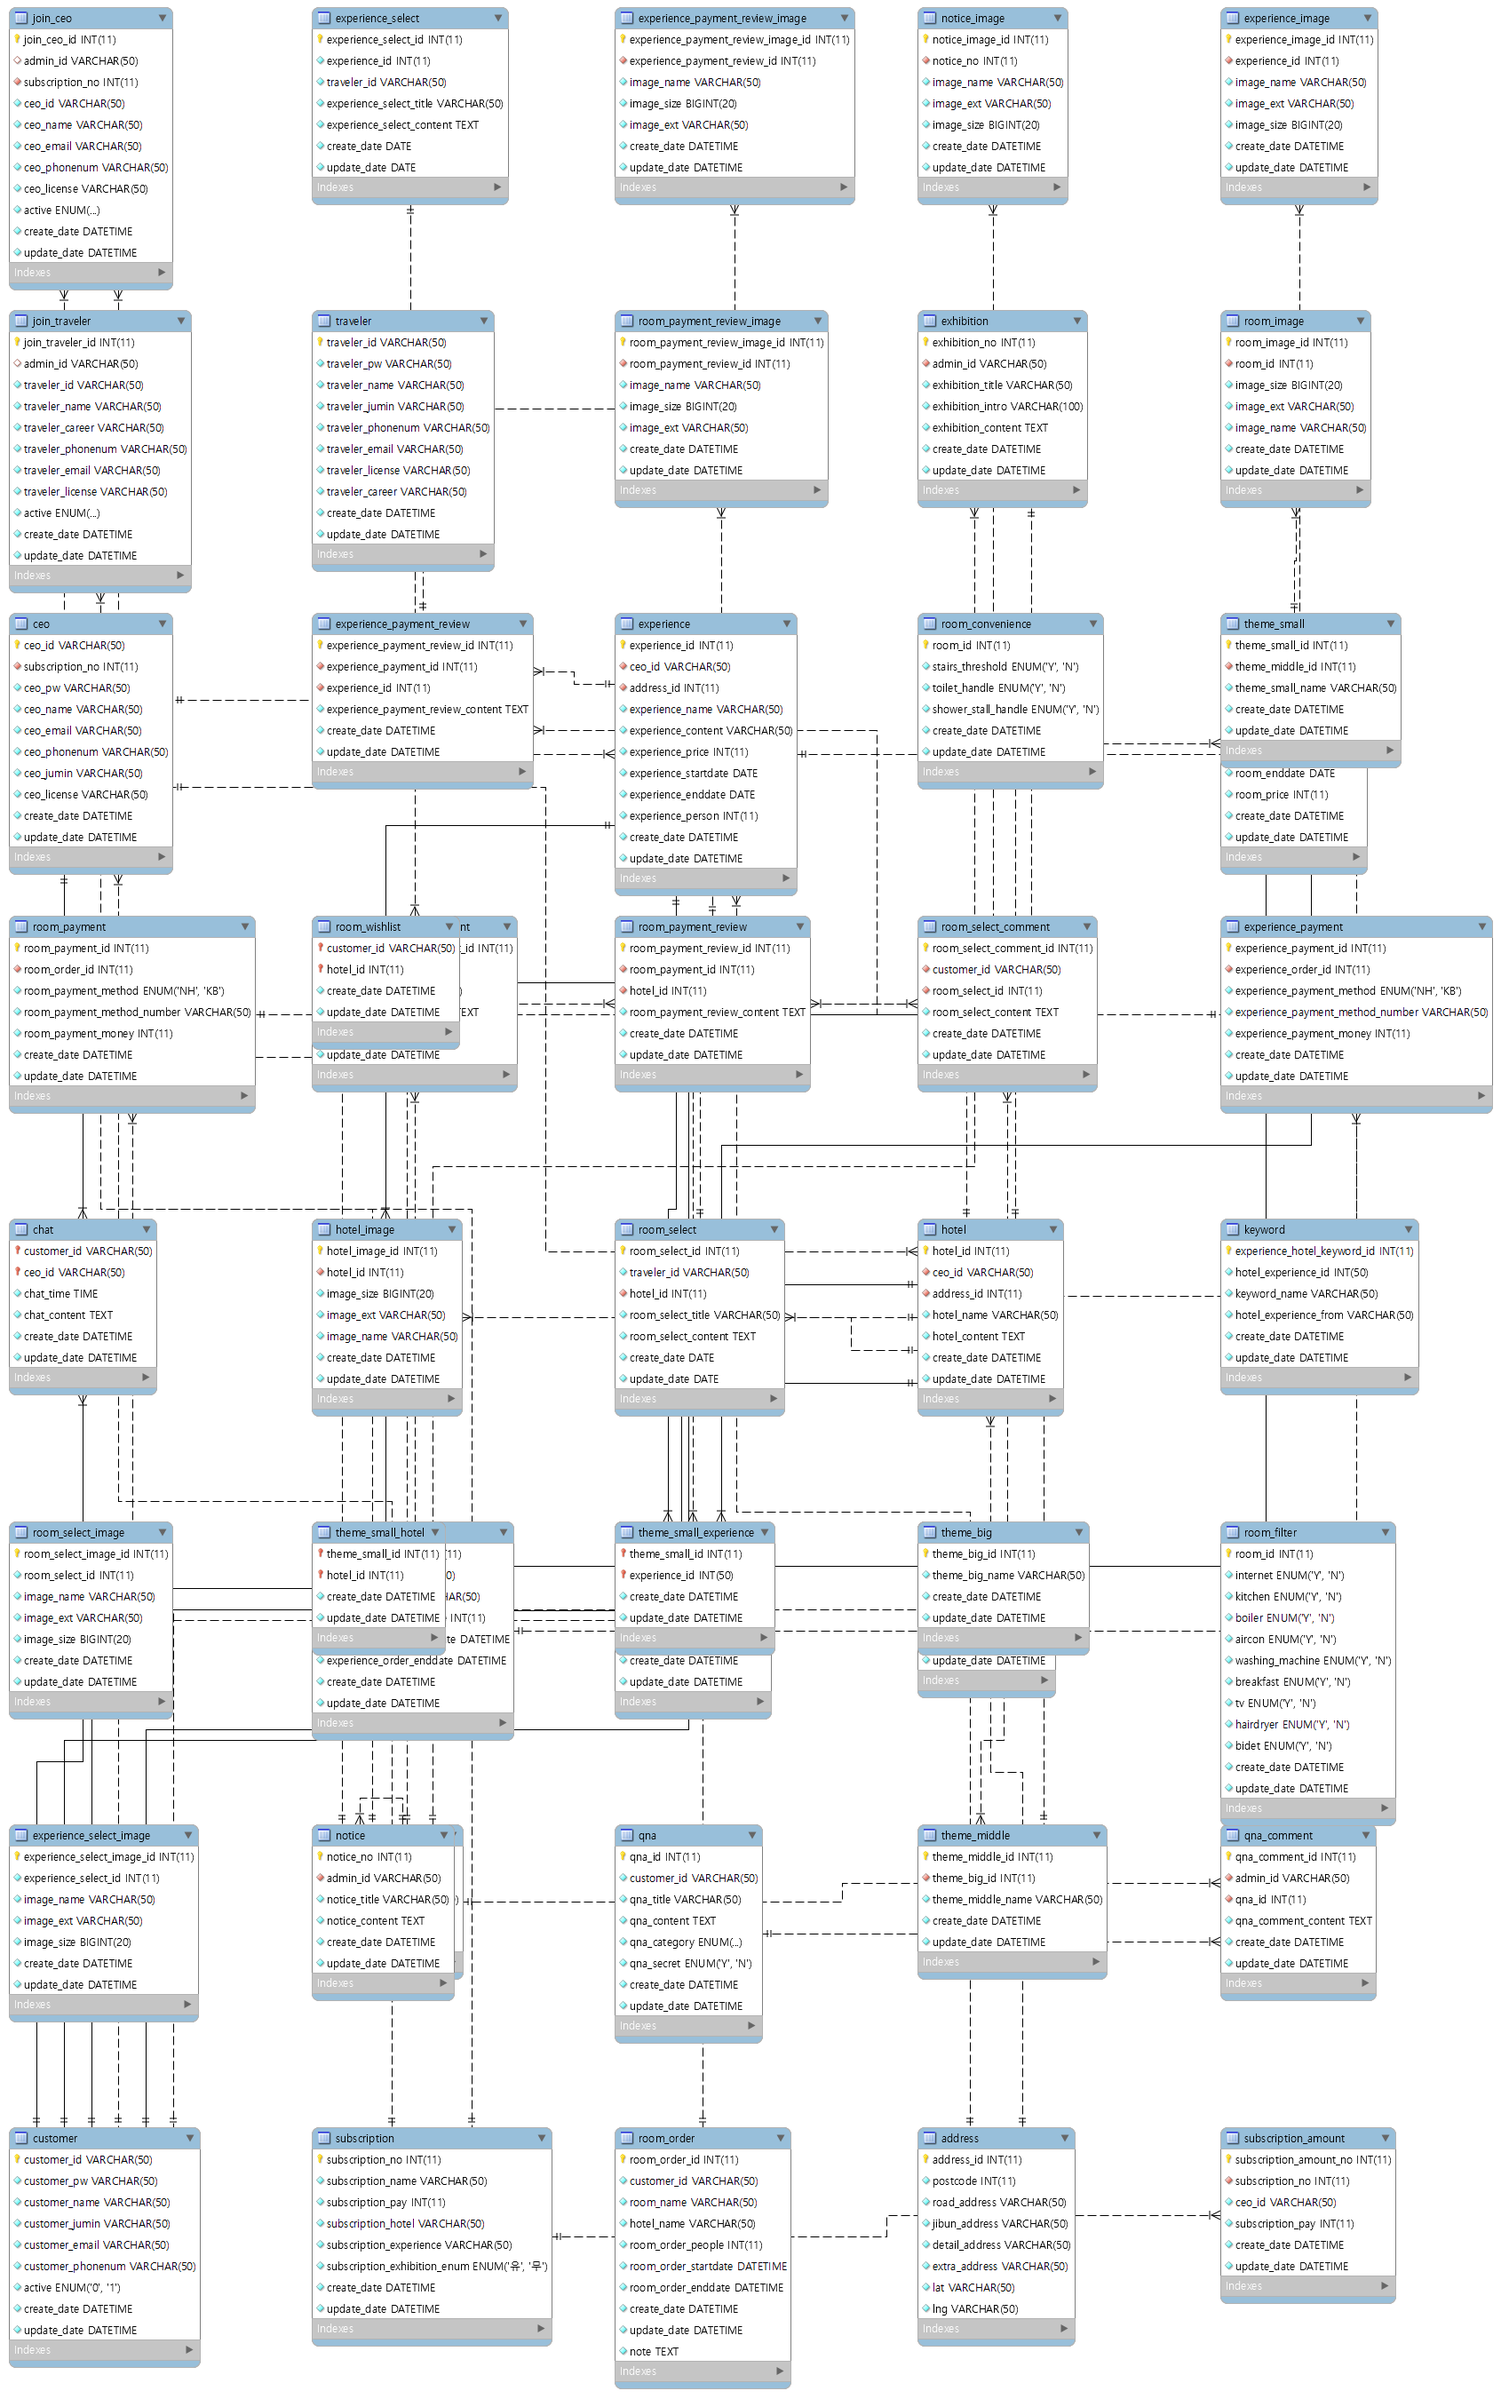
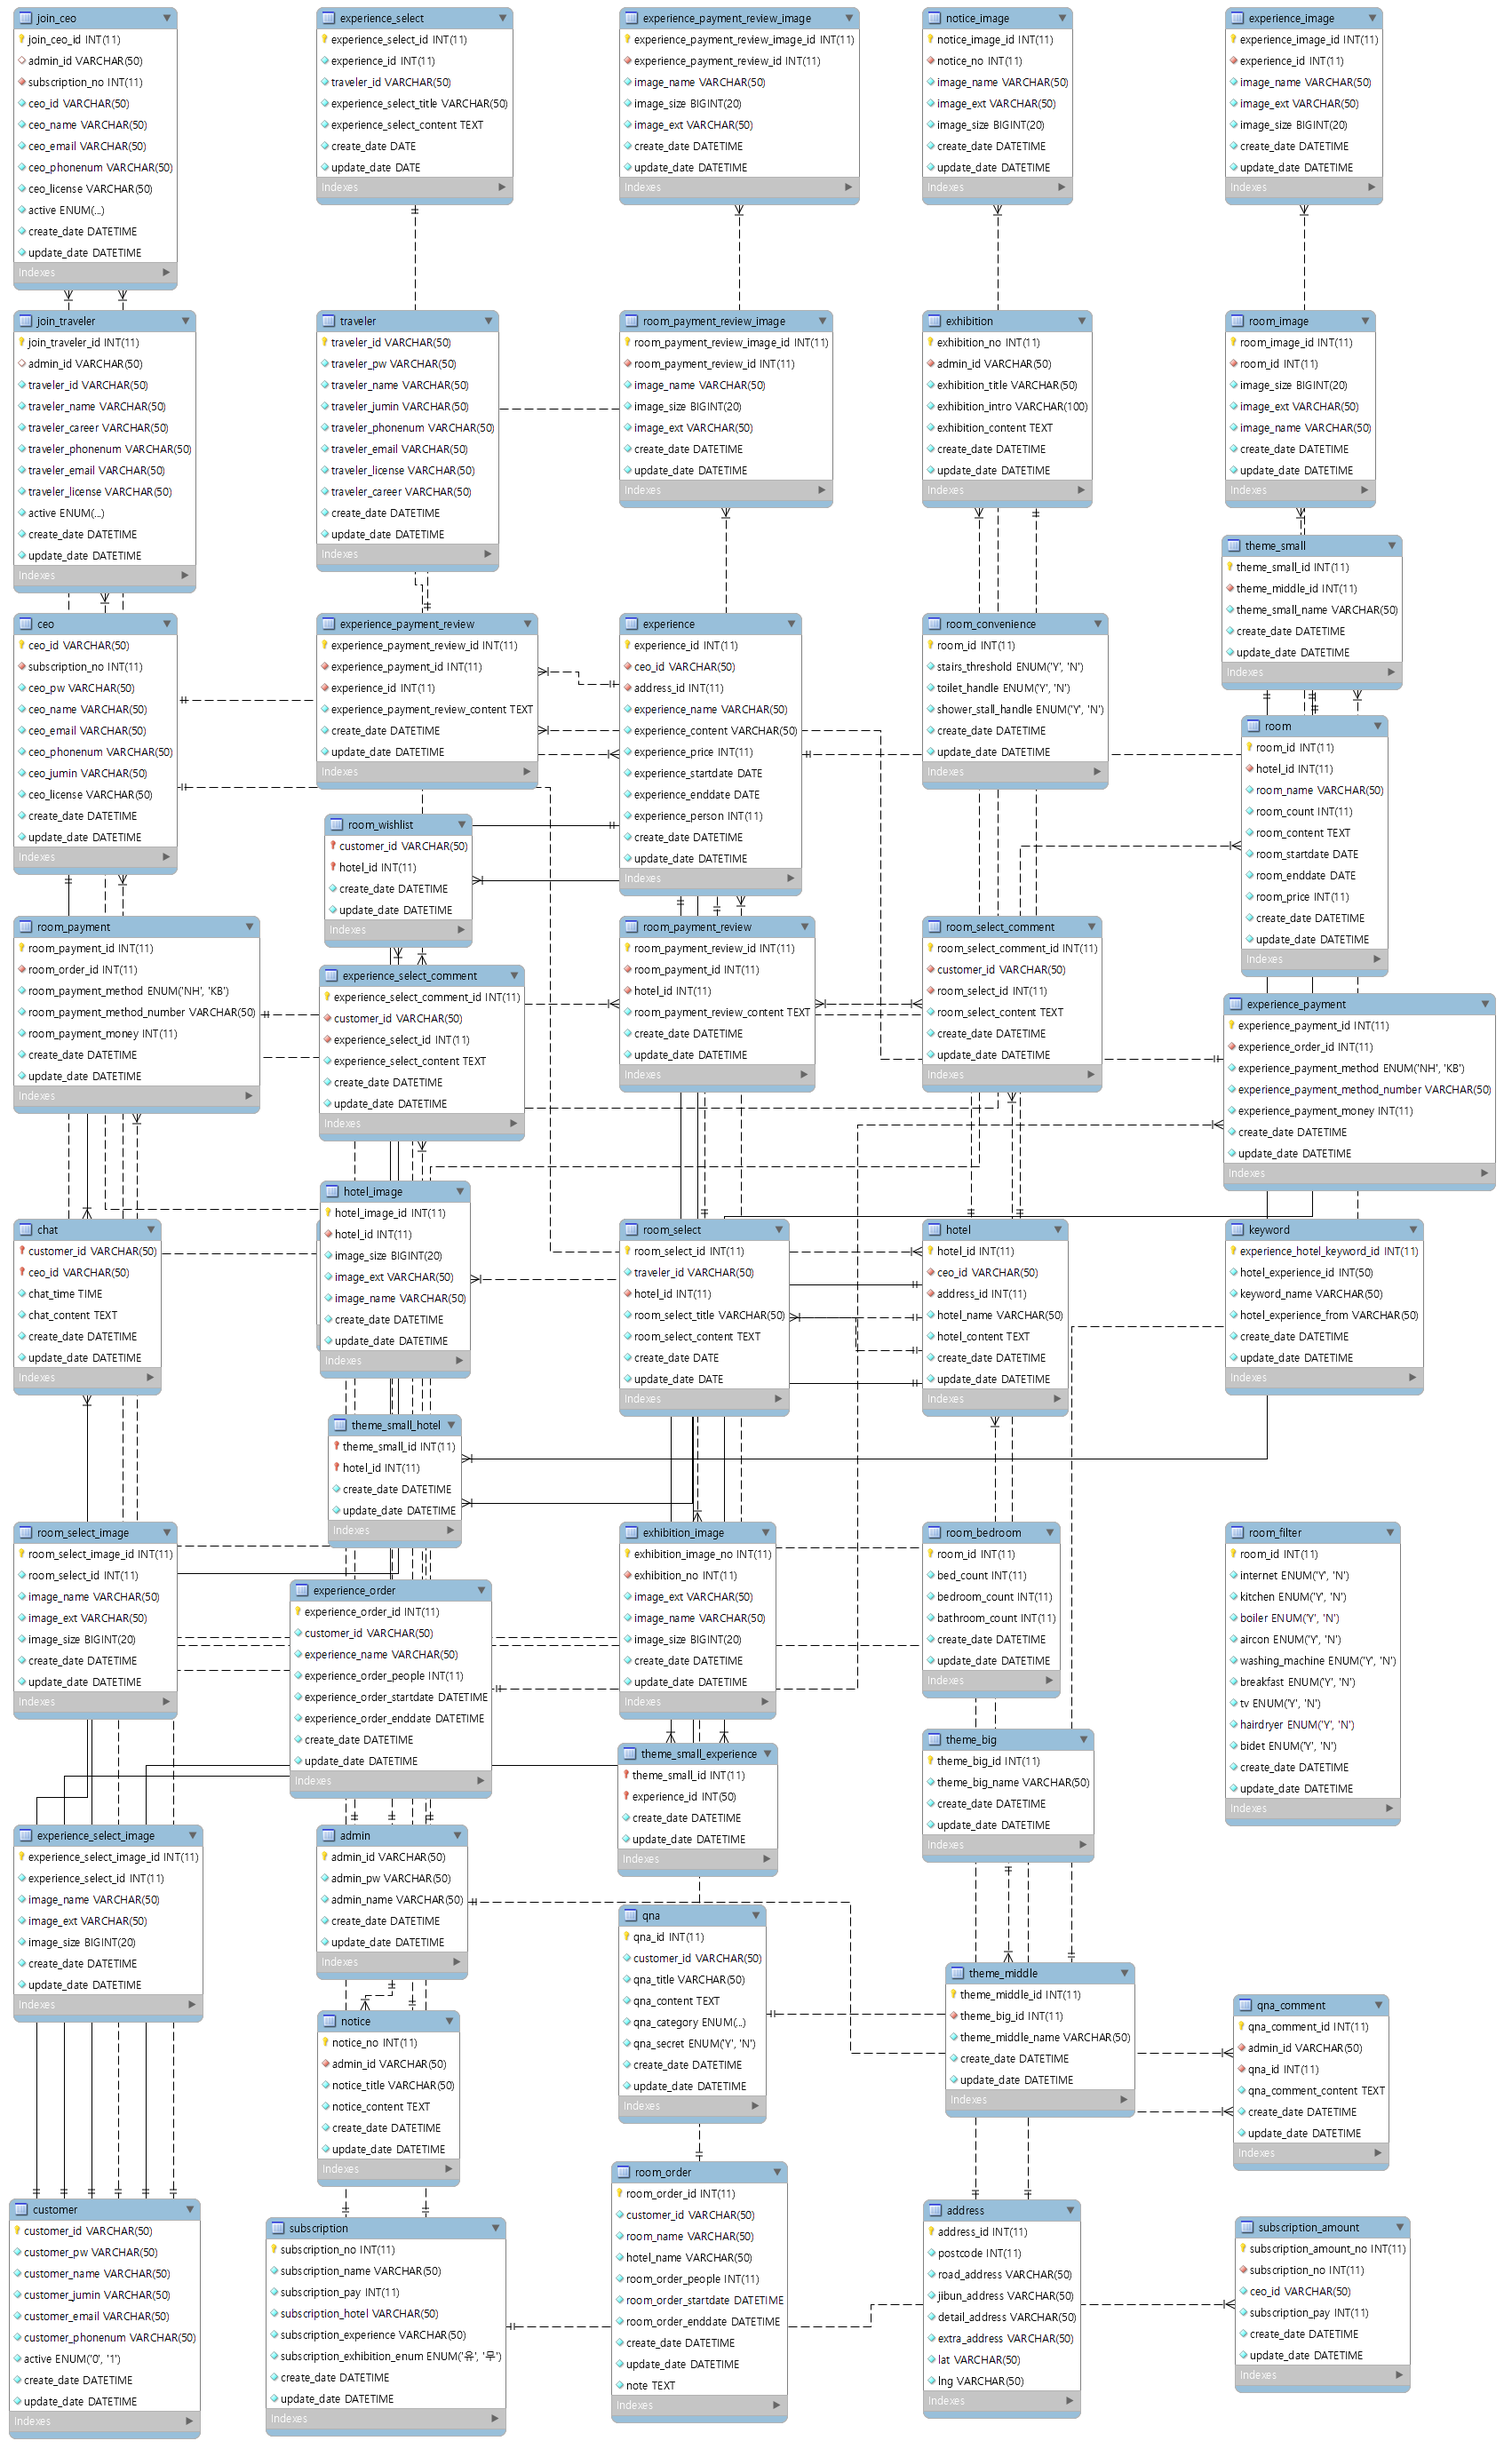
CAST erd.png 파일 변경 및 <br> 태그 삭제

diff --git a/index.html b/index.html
@@ -200,14 +200,13 @@
 								<p>Library : Spring boot 2.6.1, JSTL 1.2, tomcat 9.0, lombok 1.18, mybatis 2.2, mariaDB 10.1.48</p>
 								<p>DataBase : MariaDB 10.5, HeidiSQL</p>
 								<p>IDE : STS 4.12</p>
-								<br><hr><br>
+								<hr>
 								<p>Service Environment</p>
 								<p>OS : Ubuntu 18.04</p>
 								<p>Language : (Back-end) Oracle JDK 1.8 (Front-end) avaScript, jquery3.6.0, CSS3, bootstrap 4, HTML5</p>
 								<p>DataBase : MariaDB 10.5, HeidiSQL</p>
 								<p>IDE : STS 4.12</p>
 								<p>Execution Environment : Google Chrome browser에 최적화</p>
-								
 		    				</div>
 	    				</div>
 	    				<div class="resume-wrap d-flex ftco-animate">
@@ -228,7 +227,7 @@
 								<p>Library : tomcat 9.0, mariaDB 2.7.4</p>
 								<p>DataBase : MariaDB 10.5, HeidiSQL</p>
 								<p>IDE : Eclipse 4.18</p>
-								<br><hr><br>
+								<hr>
 								<p>Service Environment</p>
 								<p>OS : Ubuntu 18.04</p>
 								<p>Language : (Back-end) Oracle JDK 1.8 (Front-end) avaScript, jquery3.6.0, CSS3, bootstrap 4, HTML5</p>
@@ -256,8 +255,7 @@
 								<p>Library : tomcat 9.0, mariaDB 2.7.4</p>
 								<p>DataBase : MariaDB 10.5, HeidiSQL</p>
 								<p>IDE : Eclipse 4.18</p>
-		    					
-		    					<br><hr><br>
+		    					<hr>
 								<p>Service Environment</p>
 								<p>OS : Ubuntu 18.04</p>
 								<p>Language : (Back-end) Oracle JDK 1.8 (Front-end) avaScript, jquery3.6.0, CSS3, bootstrap 4, HTML5</p>
